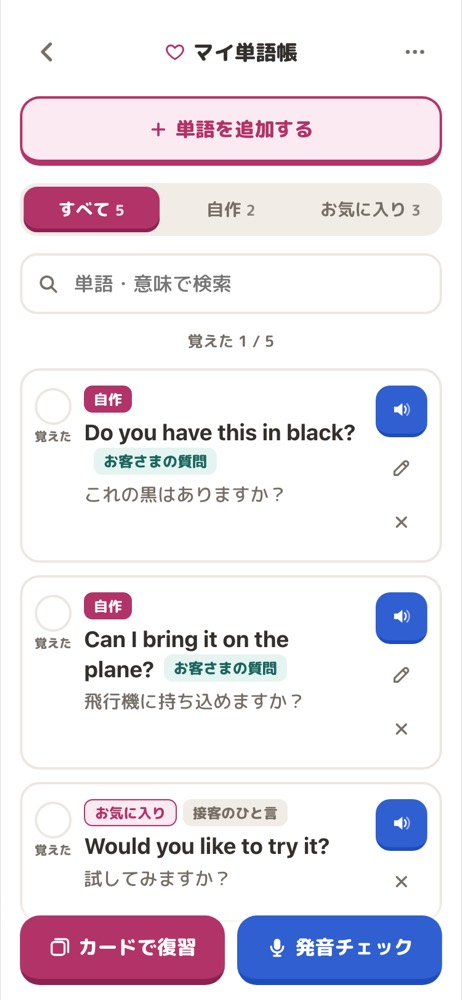
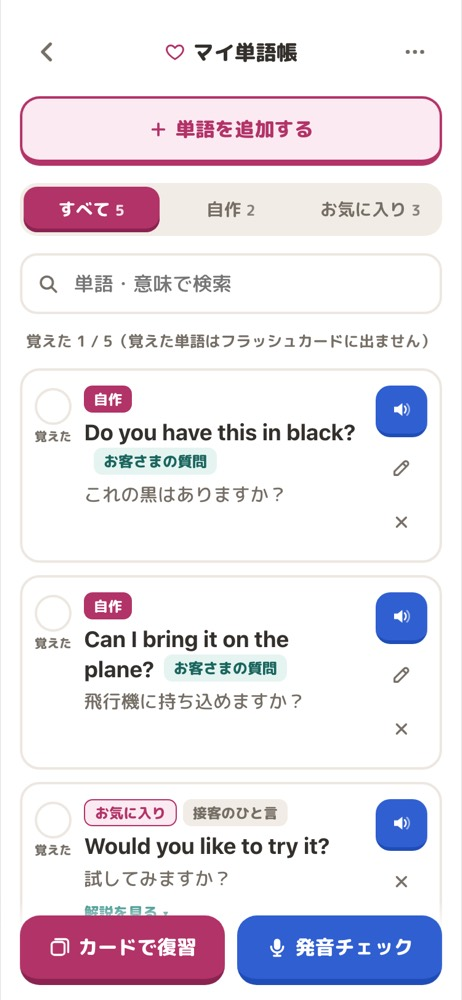
マイ単語帳のカードで「覚えた」単語を出さないようにし、例文の語句解説を追加
- マイ単語帳から始めるフラッシュカードは、一覧で「覚えた」にした単語を出さない(開始画面に何語除いたかを表示。全部覚えたらそれを知らせる)
- 収録の全114件(例文・フレーズ)に語句の解説を付け、一覧で例文を開いたときとカードの裏に表示

diff --git a/phrases-data.js b/phrases-data.js
@@ -130,3 +130,122 @@ const PHRASE_BOOK = [
     ["Have a nice trip!", "よいご旅行を！"],
   ]},
 ];
+
+/* 例文(フレーズは本文)の語句の解説。id は上と同じ「カテゴリid-並び順」。
+   「語句＝意味」を「｜」で区切って並べる。一覧で例文を開いたときと、フラッシュカードの裏に出る。 */
+const PHRASE_NOTES = {
+  "stroller-1": "this stroller＝このベビーカー｜very＝とても｜light＝軽い（重さが「軽い」。明るさの light と同じつづり）",
+  "stroller-2": "pull 〜 down＝〜を引き下ろす｜block＝さえぎる｜the sun＝日差し",
+  "stroller-3": "height＝高さ（ハイト）｜-adjustable＝〜を調節できる｜height-adjustable＝高さを調節できる",
+  "stroller-4": "can be removed＝取り外せる（can be ＋過去分詞＝〜できる）｜remove＝取り外す",
+  "stroller-5": "Please 〜＝〜してください（丁寧なお願い）｜fasten＝（ベルトを）締める。t は発音しない（ファスン）",
+  "stroller-6": "press＝押す｜the center of 〜＝〜の真ん中｜to open it＝それを開けるには（to ＝〜するために）",
+  "stroller-7": "soft＝柔らかい｜wide＝広い（幅が広い）",
+  "stroller-8": "You can 〜＝〜できます（機能の説明で一番使う形）｜adjust＝調節する",
+  "stroller-9": "adjustable＝調節できる｜, too＝〜も（文の最後に付ける）",
+  "stroller-10": "large＝大きい｜so＝だから｜it's easy to 〜＝〜しやすい",
+  "stroller-11": "step on 〜＝〜を踏む｜pedal＝ペダル｜lock＝固定する・かける",
+  "stroller-12": "absorb＝吸収する｜bump＝段差・でこぼこ（複数形 bumps）",
+  "stroller-13": "storage＝収納｜basket＝カゴ｜very large＝とても大きい",
+  "stroller-14": "be made of 〜＝〜でできている｜aluminum＝アルミ（アメリカ英語はアルーミナム）",
+  "stroller-15": "sold separately＝別売り（sold は sell「売る」の過去分詞）",
+  "stroller-16": "attach＝取り付ける｜here＝ここに",
+  "stroller-17": "keep A cool＝A を涼しく保つ｜your baby＝お子さま（お客さまの赤ちゃん）",
+  "stroller-18": "fold＝折りたたむ｜with one hand＝片手で",
+  "stroller-19": "To 〜＝〜するには（文の最初に置く）｜just＝〜するだけ｜pull 〜 up＝〜を引き上げる",
+  "stroller-20": "recline＝（背もたれが）倒れる｜almost＝ほとんど｜flat＝平ら",
+  "stroller-21": "try ～ing＝試しに〜してみる｜push＝押す",
+  "stroller-22": "attach A to B＝A を B に取り付ける｜car seat＝チャイルドシート",
+  "stroller-23": "our most 〜 model＝うちで一番〜なモデル｜lightweight＝軽量の",
+  "stroller-24": "compact＝コンパクトな｜when folded＝たたんだとき（when it is folded の省略）",
+  "stroller-25": "Is this 〜?＝これは〜ですか？｜foldable＝折りたためる（-able＝〜できる）",
+  "stroller-26": "one-hand fold＝片手でたためること｜convenient＝便利な",
+  "stroller-27": "reversible＝向きを逆にできる（対面・背面の切り替え）",
+  "stroller-28": "adjustable＝調節できる｜canopy＝幌（ほろ）",
+  "stroller-29": "seat cover＝シートカバー｜detachable＝取り外せる（detach＝外す）",
+  "stroller-30": "machine washable＝洗濯機で洗える（machine＝洗濯機のこと）",
+  "stroller-31": "breathable＝通気性のよい（breathe＝呼吸する）｜so＝だから｜stay cool＝涼しいままでいる",
+  "stroller-32": "waterproof＝防水の（-proof＝〜を通さない）",
+  "stroller-33": "has＝〜が付いている｜UV protection＝紫外線カット",
+  "stroller-34": "durable＝丈夫な｜enough for 〜＝〜にも十分なほど｜a second child＝2人目のお子さま",
+  "stroller-35": "stable＝安定した｜even＝〜でさえ｜slope＝坂（複数形 slopes）",
+  "stroller-36": "It has a 〜 ride.＝乗り心地が〜です｜smooth＝なめらかな",
+  "stroller-37": "thickly＝厚く｜padded＝クッションが入った",
+  "stroller-38": "cabin-size＝機内に持ち込めるサイズ｜on most airlines＝ほとんどの航空会社で",
+  "stroller-39": "keep A away from B＝A を B から離しておく｜the heat of the ground＝地面の熱",
+  "stroller-40": "weight＝重さ｜4.9 は four point nine と読む｜kilogram＝キログラム",
+  "stroller-41": "weigh＝重さが〜ある（weight の動詞）｜about＝約",
+  "stroller-42": "narrow＝幅がせまい｜enough to 〜＝〜できるほど｜go through＝通り抜ける｜ticket gate＝改札",
+  "stroller-43": "folded size＝たたんだときのサイズ｜very small＝とても小さい",
+  "stroller-44": "weight limit＝重さの上限（ここではお子さまの体重）｜22 は twenty-two",
+  "stroller-45": "What 〜 is this?＝これは何の〜ですか？｜material＝素材",
+  "stroller-46": "aluminum＝アルミ｜so＝だから｜light＝軽い",
+  "stroller-47": "mesh window＝メッシュの窓｜let A in＝A を中に入れる｜air＝空気・風",
+  "baby-1": "suitable for 〜＝〜に向いている・使える｜newborn＝新生児",
+  "baby-2": "be designed for 〜＝〜向けに作られている｜infant＝乳児",
+  "baby-3": "also＝〜も｜be good for 〜＝〜に向いている｜toddler＝よちよち歩きの子",
+  "baby-4": "can be used＝使える（can be ＋過去分詞）｜from 〜＝〜から｜one month old＝生後1か月",
+  "baby-5": "When is 〜?＝〜はいつですか？｜due date＝出産予定日",
+  "baby-6": "five months pregnant＝妊娠5か月（数字＋months＋pregnant の順）",
+  "baby-7": "We have 〜＝（お店に）〜がございます｜double stroller＝2人乗りベビーカー｜twins＝双子",
+  "baby-8": "Can your baby 〜?＝お子さまは〜できますか？｜sit up＝お座りする｜on their own＝ひとりで",
+  "baby-9": "as＝〜につれて｜grow＝成長する",
+  "baby-10": "There's 〜＝〜があります（There is の短縮）｜diaper-changing table＝おむつ交換台｜restroom＝お手洗い",
+  "baby-11": "hot water＝お湯（hot で「熱い水」＝お湯）｜formula＝粉ミルク",
+  "baby-12": "pocket＝ポケット｜for 〜＝〜を入れるための｜baby bottle＝哺乳びん",
+  "baby-13": "hang＝つり下げる・かける｜pacifier clip＝おしゃぶりホルダー",
+  "baby-14": "nursing room＝授乳室｜on the second floor＝2階に（階は on を使う）",
+  "baby-15": "take a nap＝お昼寝する｜in it＝その中で",
+  "baby-16": "fit＝ぴったり合う・取り付けられる｜this stroller＝このベビーカー",
+  "baby-17": "many parents＝多くの親御さん｜baby carrier＝抱っこひも｜, too＝〜も",
+  "baby-18": "We also sell 〜＝〜も販売しています｜crib＝ベビーベッド",
+  "baby-19": "high chair＝食事用のベビーチェア｜over there＝あちらに",
+  "baby-20": "Babies love 〜＝赤ちゃんは〜が大好きです｜bouncer＝バウンサー",
+  "baby-21": "be sold in sets of 〜＝〜個セットで売られている｜bib＝よだれかけ",
+  "baby-22": "clip＝（クリップで）留める｜blanket＝ブランケット",
+  "baby-23": "meet＝（基準を）満たす｜safety standards＝安全基準",
+  "shop-1": "price＝価格｜include＝含む｜tax＝税",
+  "shop-2": "65,000 は sixty-five thousand と読む｜including tax＝税込みで",
+  "shop-3": "You can 〜＝〜できます｜buy it tax-free＝免税で買う",
+  "shop-4": "May I 〜?＝〜してもよろしいですか？（とても丁寧）｜passport＝パスポート",
+  "shop-5": "be on sale＝セール中｜this week＝今週",
+  "shop-6": "I'm sorry＝申し訳ございません｜can't offer＝ご提供できない｜discount＝割引",
+  "shop-7": "accept＝（支払い方法を）受け付ける｜credit cards＝クレジットカード",
+  "shop-8": "Here's 〜＝こちらが〜です（物を渡すとき）｜receipt＝レシート（p は読まない）",
+  "shop-9": "Let me 〜＝〜させてください・〜しますね｜check if 〜＝〜かどうか確認する｜in stock＝在庫がある",
+  "shop-10": "out of stock＝在庫切れ｜right now＝ただいま",
+  "shop-11": "limited color＝限定色｜sold out＝売り切れ",
+  "shop-12": "come in 〜＝（色・サイズが）〜で展開している｜three colors＝3色",
+  "shop-13": "our most popular 〜＝一番人気の〜｜model＝モデル",
+  "shop-14": "limited edition＝限定版｜color＝色",
+  "shop-15": "display model＝展示品｜This is 〜＝こちらは〜です",
+  "shop-16": "We'll give you 〜＝〜をお渡しします（We will の短縮）｜brand-new＝新品の",
+  "shop-17": "come with 〜＝〜が付いている｜one-year＝1年間の｜warranty＝保証",
+  "shop-18": "instruction manual＝取扱説明書｜also＝〜も｜in English＝英語で",
+  "shop-19": "sold separately＝別売り｜rain cover＝レインカバー",
+  "shop-20": "Would you like 〜?＝〜はいかがですか？（丁寧にすすめる）｜gift wrapping＝ギフト包装",
+  "shop-21": "deliver A to B＝A を B に届ける｜hotel＝ホテル",
+  "shop-22": "ship＝発送する（船に限らない）｜overseas＝海外へ",
+  "shop-23": "do an exchange＝交換する｜within one week＝1週間以内に",
+  "shop-24": "give a refund＝返金する｜can't＝できない",
+  "phrase-1": "Welcome.＝いらっしゃいませ（Hello! と一緒に笑顔で）",
+  "phrase-2": "take your time＝ごゆっくりどうぞ（直訳：時間をかけてください）",
+  "phrase-3": "look for 〜＝〜を探す｜anything in particular＝特に何か",
+  "phrase-4": "How old 〜?＝何歳（何か月）ですか？｜答えは He's 〜 months old. など",
+  "phrase-5": "How will you 〜?＝どのように〜しますか？｜mainly＝主に｜use＝使う",
+  "phrase-6": "I'd recommend 〜＝〜をおすすめします（I would の短縮。やわらかい言い方）｜this one＝こちら",
+  "phrase-7": "Would you like to 〜?＝〜してみませんか？（丁寧なすすめ）｜try＝試す",
+  "phrase-8": "Let me show you 〜＝〜をお見せしますね｜how to 〜＝〜のしかた｜fold＝たたむ",
+  "phrase-9": "Let me check＝確認しますね｜if 〜＝〜かどうか｜in stock＝在庫がある",
+  "phrase-10": "Just a moment＝少々お待ちください｜please を付けると丁寧",
+  "phrase-11": "Could you 〜?＝〜していただけますか？（丁寧なお願い）｜say that again＝もう一度言う",
+  "phrase-12": "a little more slowly＝もう少しゆっくり｜speak＝話す",
+  "phrase-13": "You can 〜＝〜できます｜buy it tax-free＝免税で買う",
+  "phrase-14": "May I see 〜?＝〜を拝見してもよろしいですか？｜passport＝パスポート",
+  "phrase-15": "How would you like to pay?＝お支払い方法はいかがなさいますか？（決まり文句）",
+  "phrase-16": "Here's 〜＝こちらが〜です（物を渡すとき）｜receipt＝レシート",
+  "phrase-17": "What a 〜!＝なんて〜なんでしょう！｜cute＝かわいい",
+  "phrase-18": "make sense＝意味が通じる・わかる｜Does that 〜?＝それは〜ですか？",
+  "phrase-19": "Thank you very much.＝ありがとうございました（very much で丁寧に）",
+  "phrase-20": "Have a nice 〜!＝よい〜を！｜trip＝旅行（day にすると「よい一日を」）"
+};

diff --git a/index.html b/index.html
@@ -179,6 +179,11 @@
   .item-ex{ margin-top:8px; padding:8px 10px; border-radius:10px; background:var(--track); font-size:14px; line-height:1.5; }
   .item-ex-en{ font-family:var(--font-en); font-weight:600; overflow-wrap:anywhere; }
   .item-ex-ja{ display:block; color:var(--sub); font-size:13px; overflow-wrap:anywhere; }
+  .item-gloss, .flash-gloss{ display:flex; flex-wrap:wrap; gap:4px 6px; margin-top:7px; font-size:12.5px; line-height:1.5; color:var(--text); }
+  .gloss-head{ display:inline-flex; align-items:center; height:20px; padding:0 7px; border-radius:6px; background:var(--accent-light); color:var(--accent); font-size:11px; font-weight:800; }
+  .gloss-item{ padding:1px 8px; border-radius:6px; background:var(--track); }
+  .gloss-item b{ font-family:var(--font-en); font-weight:700; }
+  .flash-gloss{ justify-content:center; margin-top:6px; font-size:12px; text-align:left; }
   .item-note{ display:flex; gap:5px; margin-top:7px; font-size:12.5px; line-height:1.5; color:var(--sub); font-weight:700; }
   .item-note svg{ flex-shrink:0; margin-top:2px; color:var(--gold); }
   .item-tags{ display:flex; flex-wrap:wrap; gap:5px; margin-bottom:4px; }
@@ -416,15 +421,29 @@ const app = document.getElementById("app");
 
 /* ===================== 収録データ ===================== */
 const CATEGORIES = PHRASE_BOOK.map(c => ({ id:c.id, kind:c.kind, icon:c.icon, name:c.name, desc:c.desc || "" }));
+// 例文(フレーズは本文)の語句の解説(phrases-data.js の PHRASE_NOTES)。「語句＝意味｜語句＝意味」を [[語句, 意味], …] にする
+function parseGloss(id){
+  const raw = (typeof PHRASE_NOTES !== "undefined" && PHRASE_NOTES[id]) || "";
+  return raw.split("｜").map(x => x.trim()).filter(Boolean).map(x => {
+    const k = x.indexOf("＝");
+    return k > 0 ? [x.slice(0, k), x.slice(k + 1)] : ["", x];
+  });
+}
+// 語句の解説の表示(一覧とフラッシュカードの裏で共通)
+function glossHtml(w, cls){
+  if(!w.gloss || w.gloss.length === 0) return "";
+  return `<div class="${cls}"><span class="gloss-head">語句</span>${w.gloss.map(([k, v]) =>
+    `<span class="gloss-item">${k ? `<b lang="en">${esc(k)}</b>` : ""}${k ? "：" : ""}${esc(v)}</span>`).join("")}</div>`;
+}
 const BUILTIN = [];
 PHRASE_BOOK.forEach(c => c.items.forEach((row, i) => {
   const id = `${c.id}-${i + 1}`;
   if(c.kind === "phrase"){
     const [en, ja, note] = row;
-    BUILTIN.push({ id, cat:c.id, en, ja, pos:"", ex_en:"", ex_ja:"", note:note || "" });
+    BUILTIN.push({ id, cat:c.id, en, ja, pos:"", ex_en:"", ex_ja:"", note:note || "", gloss:parseGloss(id) });
   } else {
     const [en, ja, pos, ex_en, ex_ja, note] = row;
-    BUILTIN.push({ id, cat:c.id, en, ja, pos:pos || "", ex_en:ex_en || "", ex_ja:ex_ja || "", note:note || "" });
+    BUILTIN.push({ id, cat:c.id, en, ja, pos:pos || "", ex_en:ex_en || "", ex_ja:ex_ja || "", note:note || "", gloss:parseGloss(id) });
   }
 }));
 const BUILTIN_MAP = new Map(BUILTIN.map(w => [w.id, w]));
@@ -663,7 +682,7 @@ function itemRow(w, mode, opts){
     if(!custom){ const c = catById(w.cat); if(c) tags.push(`<span class="cat-tag">${esc(c.name)}</span>`); }
   }
   if(state.pron[w.id]) tags.push(`<span class="pron-tag">発音 ${state.pron[w.id].best}点</span>`);
-  const hasDetails = !!(w.ex_en || w.ex_ja || w.note);
+  const hasDetails = !!(w.ex_en || w.ex_ja || w.note || (w.gloss && w.gloss.length));
   const actions = mode === "my"
     ? `<button class="speak-btn" data-act="speak" aria-label="発音を聞く">${ICON.speaker(18)}</button>
        ${custom
@@ -679,9 +698,10 @@ function itemRow(w, mode, opts){
         ${tags.length ? `<div class="item-tags">${tags.join("")}</div>` : ""}
         <div class="item-en"><span lang="en">${esc(w.en)}</span>${w.pos ? `<span class="word-pos">${esc(w.pos)}</span>` : ""}</div>
         <div class="item-ja">${esc(w.ja)}</div>
-        ${hasDetails ? `<span class="item-more">${w.ex_en || w.ex_ja ? "例文" : "メモ"}を見る ▾</span>` : ""}
+        ${hasDetails ? `<span class="item-more">${w.ex_en || w.ex_ja ? "例文" : "解説"}を見る ▾</span>` : ""}
         <div class="item-details">
           ${w.ex_en || w.ex_ja ? `<div class="item-ex">${w.ex_en ? `<span class="item-ex-en" lang="en">${esc(w.ex_en)}</span><button class="speak-btn-sm" data-act="speak-ex" aria-label="例文を聞く">${ICON.speaker(15)}</button>` : ""}${w.ex_ja ? `<span class="item-ex-ja">${esc(w.ex_ja)}</span>` : ""}</div>` : ""}
+          ${glossHtml(w, "item-gloss")}
           ${w.note ? `<div class="item-note">${ICON.bulb(14)}<span>${esc(w.note)}</span></div>` : ""}
         </div>
       </div>
@@ -770,7 +790,7 @@ function renderHome(){
   document.getElementById("btnHelp").onclick = () => showTutorial();
   document.getElementById("btnOpenMy").onclick = () => go("my");
   document.getElementById("btnQuickAdd").onclick = () => showAddWordSheet(null, () => renderHome());
-  document.getElementById("btnMyFlash").onclick = () => { myFilter = "all"; startFlash(getMyEntries("all"), "マイ単語帳", { view:"home" }, "indiv"); };
+  document.getElementById("btnMyFlash").onclick = () => { myFilter = "all"; startFlash(getMyEntries("all"), "マイ単語帳", { view:"home" }, "indiv", { skipLearned:true }); };
   const input = document.getElementById("homeSearch");
   input.oninput = () => { homeQuery = input.value; renderHomeBody(); };
   input.addEventListener("keydown", e => { if(e.key === "Enter" && !e.isComposing) input.blur(); });
@@ -873,7 +893,7 @@ function renderMy(){
       </div>
       <div class="search-box" style="margin-bottom:12px;">${ICON.search(18)}<input type="search" id="mySearch" class="text-input" placeholder="単語・意味で検索" value="${esc(myQuery)}" autocomplete="off" autocapitalize="off" spellcheck="false" enterkeyhint="search" aria-label="マイ単語帳を検索"></div>`}
     ${entries.length === 0 ? `<div class="empty-state">${emptyMessages[myFilter]}</div>` : `
-      ${state.learned.length === 0 ? `<p class="hint">覚えたら、左の「覚えた」にチェックしておきましょう。</p>` : `<p class="hint">覚えた ${learnedCount} / ${entries.length}</p>`}
+      ${state.learned.length === 0 ? `<p class="hint">覚えたら左の「覚えた」にチェック。フラッシュカードに出なくなります</p>` : `<p class="hint">覚えた ${learnedCount} / ${entries.length}（覚えた単語はフラッシュカードに出ません）</p>`}
       <div id="myRows">${entries.map(w => itemRow(w, "my", { showSource: myFilter === "all" })).join("")}</div>
       <div class="empty-state" id="myNoHit" style="display:none; padding:24px 16px;">一致する単語はありません。</div>
       <div class="footer-spacer"></div>
@@ -902,7 +922,7 @@ function renderMy(){
     search.oninput = () => { myQuery = search.value; filterRows(rows, myQuery, noHit); };
     search.addEventListener("keydown", e => { if(e.key === "Enter" && !e.isComposing) search.blur(); });
     filterRows(rows, myQuery, noHit);
-    document.getElementById("btnMyFlash").onclick = () => startFlash(entries, `マイ単語帳（${labels[myFilter]}）`, { view:"my" }, "indiv");
+    document.getElementById("btnMyFlash").onclick = () => startFlash(entries, `マイ単語帳（${labels[myFilter]}）`, { view:"my" }, "indiv", { skipLearned:true });
     document.getElementById("btnMyPron").onclick = () => startPron(entries, `マイ単語帳（${labels[myFilter]}）`, { view:"my" }, "indiv");
   }
 }
@@ -1159,13 +1179,24 @@ function shuffle(a){ for(let i = a.length - 1; i > 0; i--){ const j = Math.floor
 function orderForFlash(entries){
   return shuffle(entries.slice()).sort((a, b) => (state.seenAt[a.id] || 0) - (state.seenAt[b.id] || 0));
 }
-// 始める前に、出題のしかた(英語→日本語 か 日本語→英語)を選ぶ(選んだ内容は次回も使う)
-function startFlash(entries, title, back, tone){
+// 始める前に、出題のしかた(英語→日本語 か 日本語→英語)を選ぶ(選んだ内容は次回も使う)。
+// マイ単語帳から始めるときは(skipLearned)、一覧で「覚えた」にした単語は出さない
+function startFlash(entries, title, back, tone, opts){
   if(entries.length === 0) return;
+  const all = entries.length;
+  if(opts && opts.skipLearned) entries = entries.filter(w => !isLearned(w));
+  const skipped = all - entries.length;
   let front = state.flashFront === "ja" ? "ja" : "en";
+  if(entries.length === 0){
+    openSheet(`${sheetHead("フラッシュカード")}
+      <p style="margin:0 0 6px;">すべて「覚えた」になっています 🎉</p>
+      <p class="sub" style="font-size:14px;">もう一度めくりたい単語は、マイ単語帳の一覧で左の「覚えた」のチェックを外してください。</p>
+      <button class="btn btn-indiv" data-close>閉じる</button>`);
+    return;
+  }
   const { close, $ } = openSheet(`
     ${sheetHead("フラッシュカード")}
-    <p class="sub sheet-lead">${esc(title)}</p>
+    <p class="sub sheet-lead">${esc(title)}${skipped ? `<br><small>「覚えた」にした${skipped}語は出しません</small>` : ""}</p>
     <div class="opt-label">出題のしかた</div>
     <div class="segmented ${tone === "indiv" ? "" : "accent"}" id="flashFrontSeg">
       <button data-front="en">英語 → 日本語</button>
@@ -1239,6 +1270,7 @@ function renderFlashcard(){
             <div class="flashcard-body">
               ${jaFront ? enHtml.replace('id="flashSpeak"', 'id="flashSpeakBack"') : jaHtml}
               ${w.ex_en || w.ex_ja ? `<div class="flash-ex">${w.ex_en ? `<div class="flash-ex-en" lang="en">${esc(w.ex_en)}<button class="speak-btn-sm" id="flashSpeakEx" aria-label="例文を聞く">${ICON.speaker(15)}</button></div>` : ""}${w.ex_ja ? `<div class="flash-ex-ja">${esc(w.ex_ja)}</div>` : ""}</div>` : ""}
+              ${glossHtml(w, "flash-gloss")}
               ${w.note ? `<div class="flash-note">${esc(w.note)}</div>` : ""}
             </div>
           </div>
